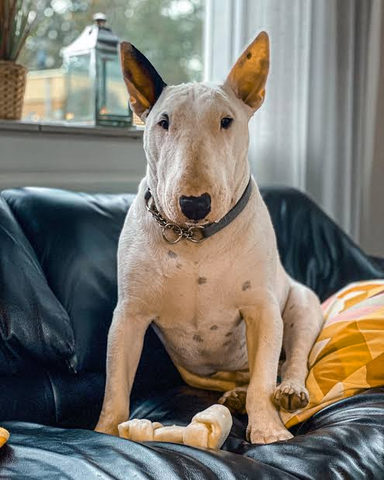
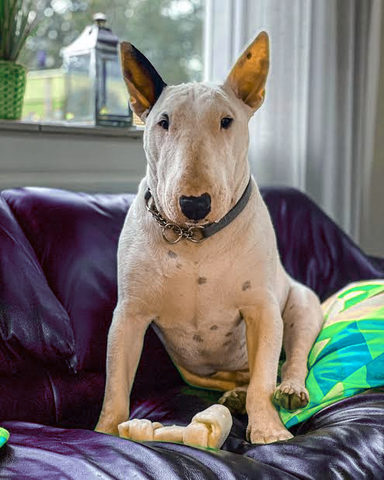
refactor(selective_color)!: fold hue_shift into selective_color
hue_shift is one hue range that covers the whole wheel: the new preset
`hue_shift` of selective_color (width 360, feather 0, hue_shift 150).
`hue_shift` is now drivable. Pale colours turn less than vivid ones and the
HSV value, not the luma, is kept, so the look changes slightly.

BREAKING CHANGE: effect `hue_shift` is gone; use `selective_color` with
`preset = "hue_shift"` or `width = 360, feather = 0, hue_shift = <degrees>`.

diff --git a/tests/effects/selective_color/test_selective_color.py b/tests/effects/selective_color/test_selective_color.py
@@ -6,6 +6,7 @@ import numpy as np
 import pytest
 
 from bullterrier_image.core import registry
+from bullterrier_image.core.steps import Step
 
 NAME = "selective_color"
 
@@ -171,3 +172,10 @@ def test_a_hue_centre_past_a_full_turn_selects_the_same_colours_as_the_centre_in
     np.testing.assert_array_equal(
         registry.apply(NAME, photo, hue=361, hue_shift=40), registry.apply(NAME, photo, hue=1, hue_shift=40)
     )
+
+
+@pytest.mark.parametrize("hue", [0, 30, 90, 150, 200, 270, 330])
+def test_the_hue_shift_preset_turns_a_vivid_colour_of_any_hue_150_degrees_round_the_wheel(hue: float) -> None:
+    out = registry.apply(NAME, pixel(hue), **Step(NAME, preset="hue_shift").params)
+    assert circular_distance(hue_of(out), hue + 150) < 0.05
+    np.testing.assert_allclose(out.max(), 1.0, atol=1e-6)  # the brightness (HSV value) is kept

diff --git a/src/bullterrier_image/effects/selective_color/effect.py b/src/bullterrier_image/effects/selective_color/effect.py
@@ -44,8 +44,10 @@ class SelectiveColorParams(EffectParams):
         unit="degrees",
         min=-180,
         max=180,
+        drivable=True,
         doc="How far the selected hues are turned round the colour wheel, -180..180 degrees; positive goes red toward "
-        "yellow, green, blue. 0 keeps the hue.",
+        "yellow, green, blue. 0 keeps the hue. With `width` 360 and `feather` 0 every colour turns (preset "
+        "`hue_shift`).",
     )
     saturation: float = param(
         1.0,

diff --git a/docs/effects-roadmap.md b/docs/effects-roadmap.md
@@ -21,13 +21,12 @@ it becomes a new effect only when it is a new idea. Planned merges of today's ef
 | `grade` ✓ | Exposure, contrast, saturation, vibrance (muted colours rise more than vivid ones). | `fx.grade(exposure=0.3, vibrance=0.5)` |
 | `gradient_map` ✓ | Recolour by brightness with any gradient. | `fx.gradient_map(stops=["#000","#f0f"])` |
 | `split_tone` ✓ | Tint shadows and highlights. | `fx.split_tone(shadow="#3a1bff")` |
-| `hue_shift` ✓ | Rotate hues, keep brightness. | `fx.hue_shift(hue=150)` |
 | `levels` ✓ | Black point, white point, gamma, output range (`output_black` lifts the blacks for a matte film look). | `fx.levels(black=0.05, white=0.95, gamma=1.1)` |
 | `curves` ✓ | Tone curve through control points; preset `solarize` folds the highlights back dark. | `fx.curves(shadows=0.18, highlights=0.82)` |
 | `auto_levels` ✓ | Stretch to the full tonal range. | `fx.auto_levels(clip=0.005)` |
 | `equalize` ✓ | Adaptive histogram equalisation (CLAHE-style). | `fx.equalize(tiles=8, limit=2.0)` |
 | `white_balance` ✓ | Fix colour cast by temperature/tint or a grey point. | `fx.white_balance(temperature=-0.2)` |
-| `selective_color` ✓ | Shift hue/saturation/lightness of one colour range. | `fx.selective_color(hue=30, saturation=0.6)` |
+| `selective_color` ✓ | Shift hue/saturation/lightness of one colour range or, with preset `hue_shift`, of every colour. | `fx.selective_color(hue=30, saturation=0.6)` |
 | `color_balance` ✓ | Separate RGB shifts for shadows, mids, highlights. | `fx.color_balance(highlights_red=0.05, highlights_blue=-0.05)` |
 | `channel_mixer` ✓ | 3x3 matrix between channels. | `fx.channel_mixer(red_from_red=0, red_from_green=1, green_from_red=1, green_from_green=0)` |
 | `invert` ✓ (a preset of `levels`) | Negative. | `fx.levels(preset="invert")` |
@@ -200,7 +199,7 @@ varies a parameter"): `radius = { by = "far", start = 0, end = 12 }` on a `gauss
 radius of `gaussian_blur`, `bloom`; `motion_blur`'s `length`; the amounts of `bloom`,
 `grain`, `sharpen`, `chromatic_aberration`, `displace`, `vignette`;
 `grade`'s `exposure`, `contrast`, `saturation`, `vibrance`; `levels`' `output_black`; `white_balance`'s `temperature` and `tint`;
-`hue_shift`'s `hue`; `fog`'s `amount`. More follow when a look needs them; the rule is that the result changes smoothly with the number.
+`selective_color`'s `hue_shift`; `fog`'s `amount`. More follow when a look needs them; the rule is that the result changes smoothly with the number.
 
 ## Depth and light from geometry
 
